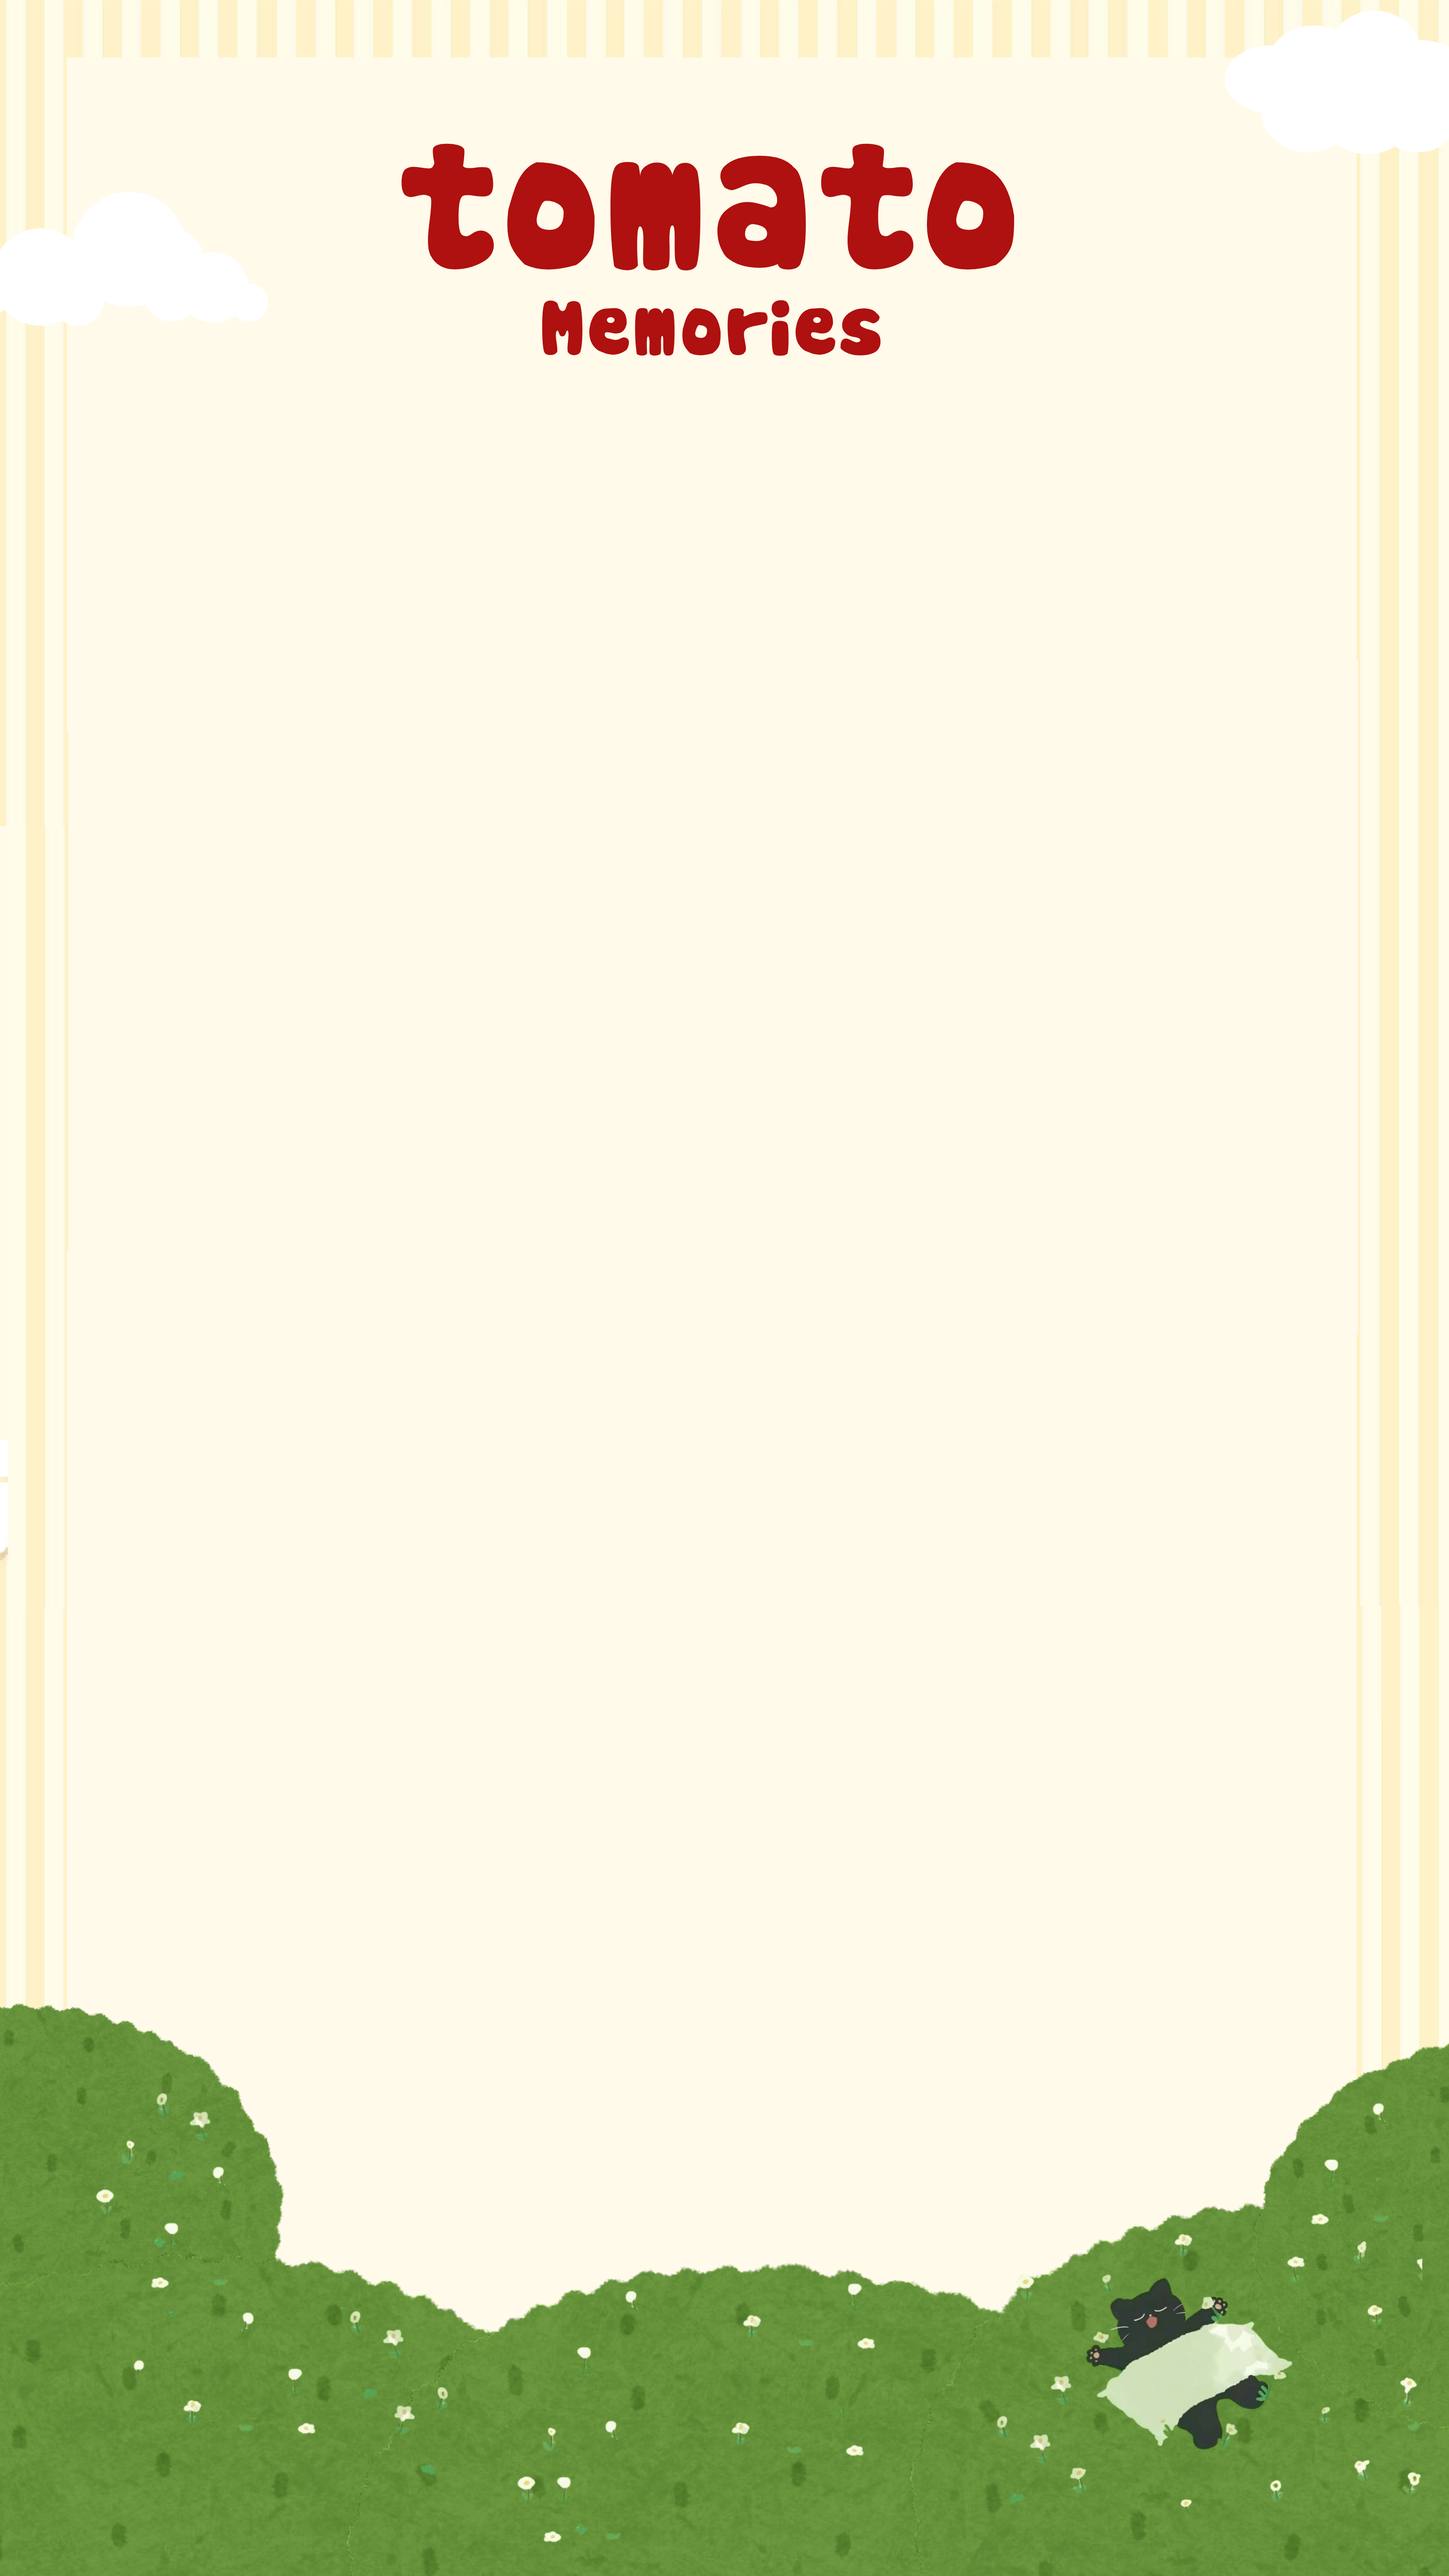
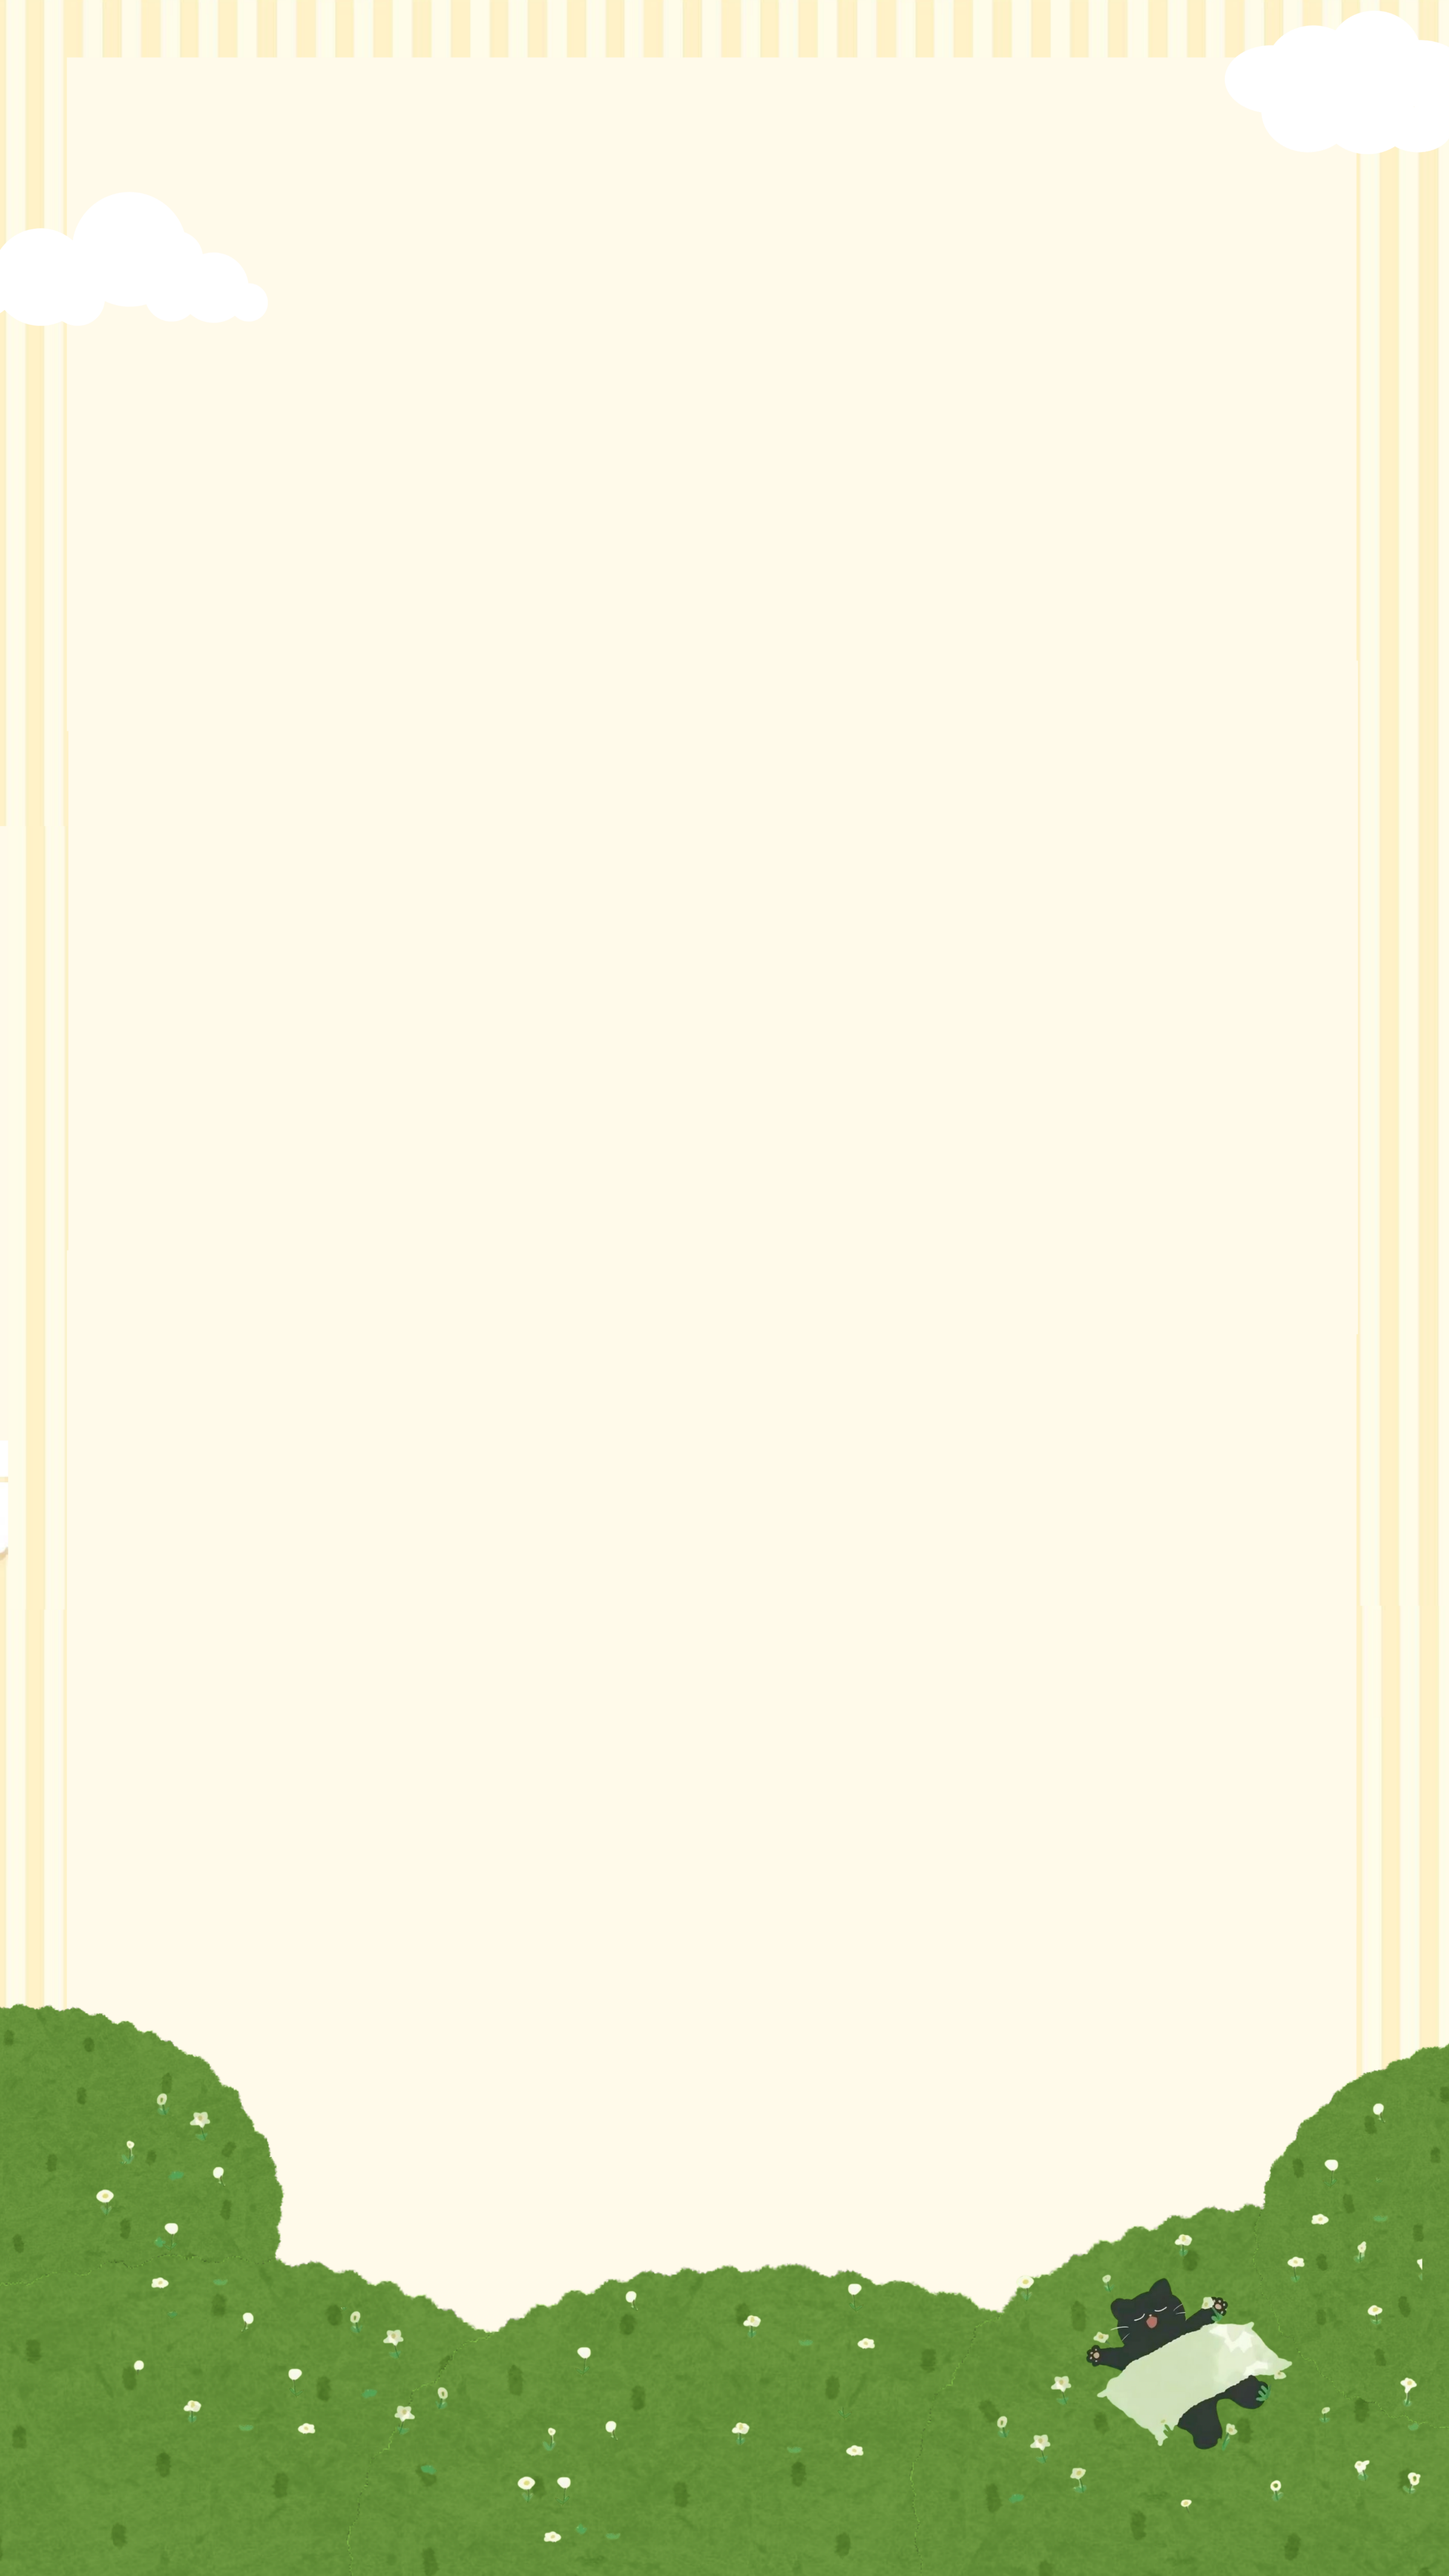
ok

Changed region(s): [[0.28, 0.0312, 0.7156, 0.1558]]

diff --git a/api/revenue.js b/api/revenue.js
@@ -229,6 +229,20 @@ async function writeRevenueResetAt(supabase) {
     return resetAt;
 }
 
+async function clearBoothReports(supabase) {
+    // Reset doanh thu cũng xóa báo cáo cuối ngày của booth (giấy còn + tiền mặt),
+    // để dòng "💵 Tiền mặt" trên thẻ booth không còn dữ liệu cũ sau khi reset.
+    const { error } = await supabase
+        .from('app_configs')
+        .upsert({
+            key: 'booth_reports',
+            config: {},
+            updated_at: new Date().toISOString(),
+        }, { onConflict: 'key' });
+
+    if (error && !isMissingTable(error)) throw error;
+}
+
 async function readHiddenBooths(supabase) {
     const { data, error } = await supabase
         .from('app_configs')
@@ -327,6 +341,7 @@ export default async function handler(req, res) {
             }
 
             const resetAt = await writeRevenueResetAt(supabase);
+            await clearBoothReports(supabase);
             return json(res, 200, { success: true, reset_at: resetAt });
         }
 

diff --git a/src/components/admin/RevenueDashboard.jsx b/src/components/admin/RevenueDashboard.jsx
@@ -185,6 +185,7 @@ const RevenueDashboard = () => {
 
         socket.on('revenue_reset', () => {
             fetchRevenue();
+            fetchDevices();
         });
 
         return () => socket.disconnect();
@@ -257,6 +258,9 @@ const RevenueDashboard = () => {
 
             setShowResetModal(false);
             setResetCode('');
+
+            fetchRevenue();
+            fetchDevices();
 
             setNotification('Đã reset doanh thu thành công');
             setTimeout(() => setNotification(null), 3000);
